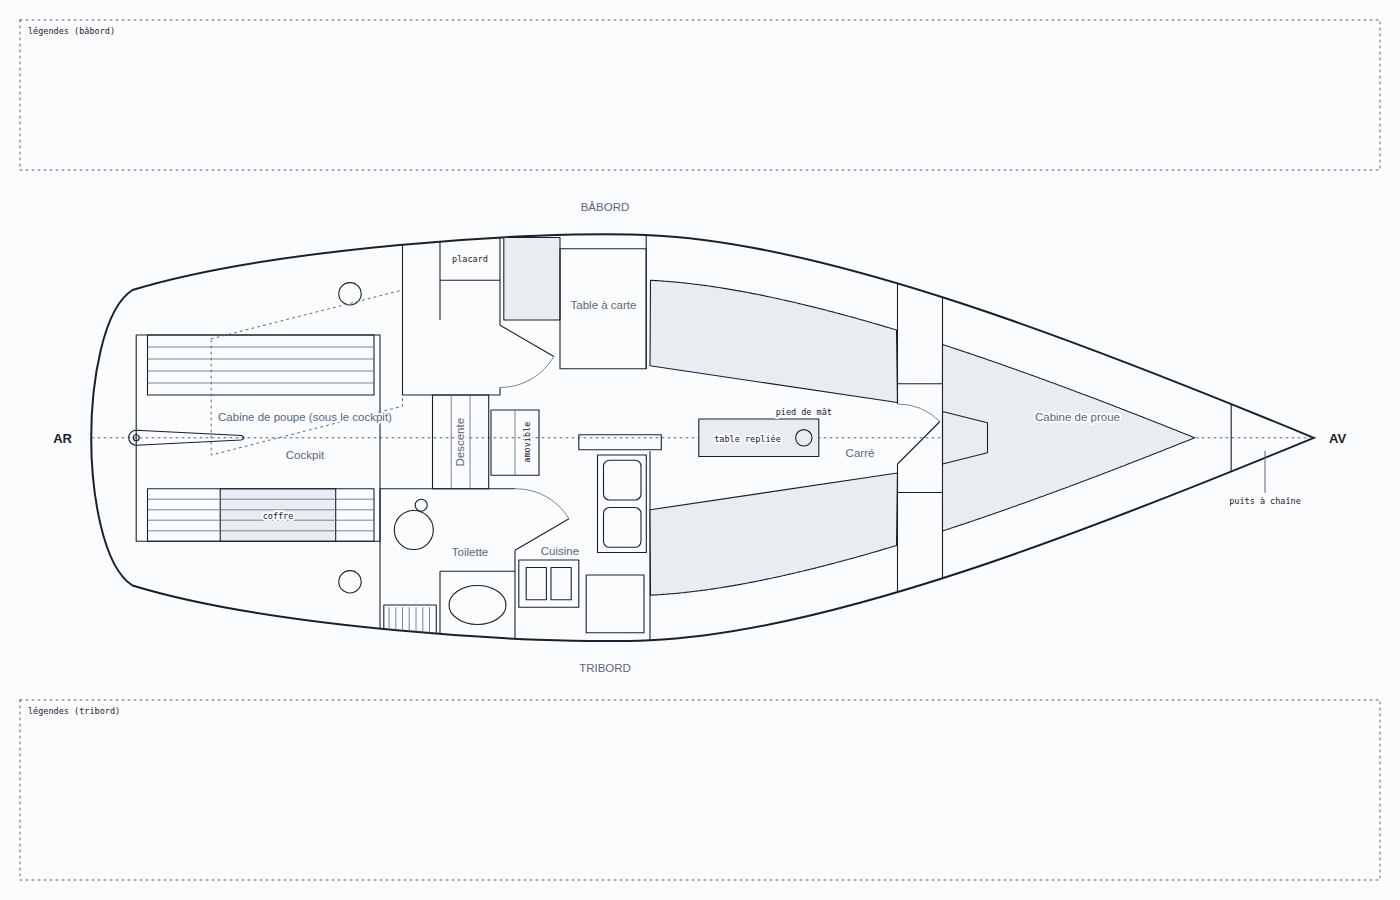
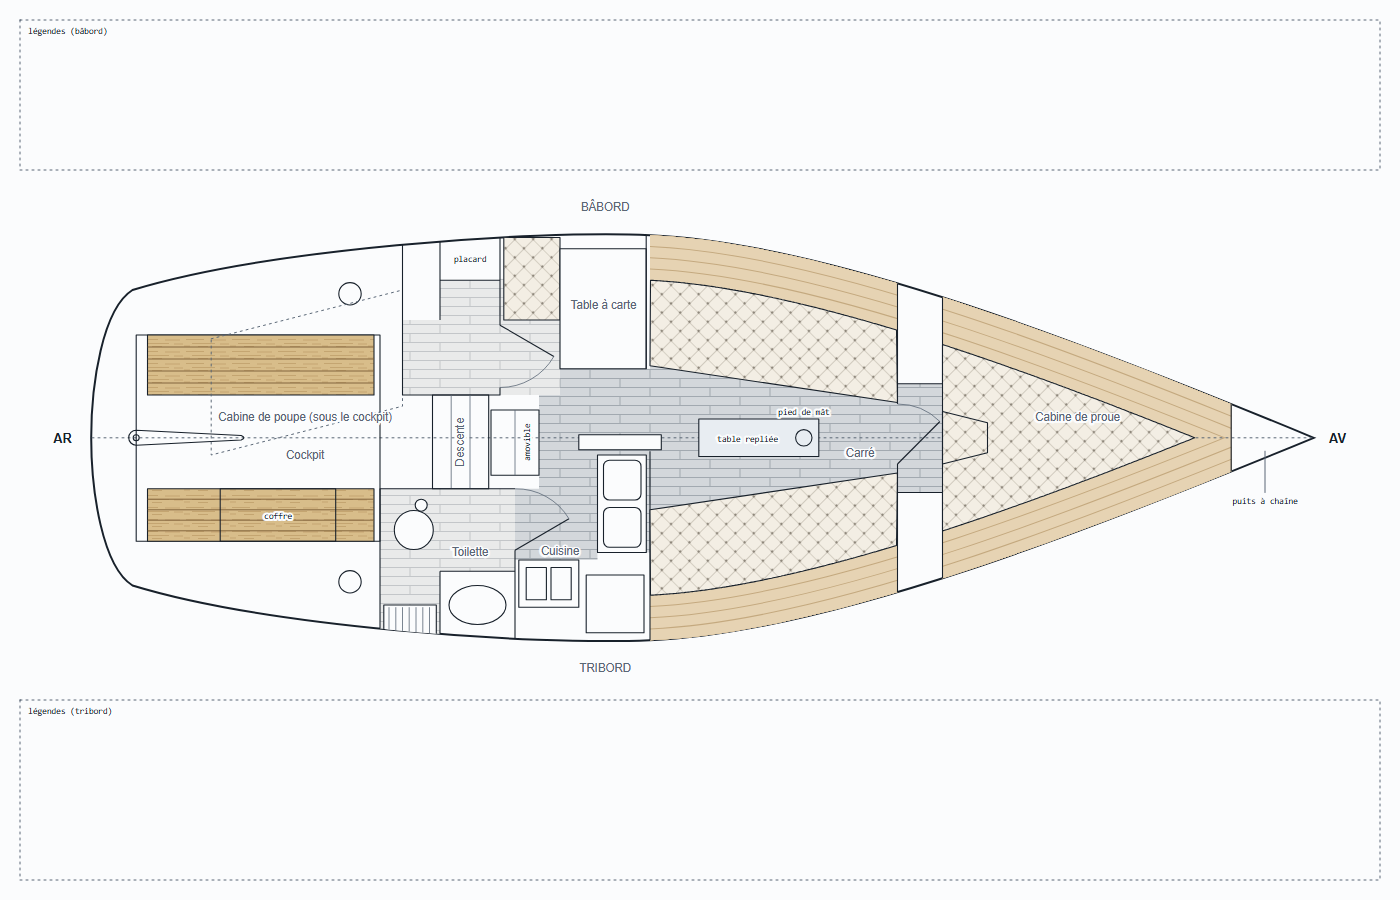
Plan de bord : textures des planchers, matelassages, vaigrages et bancs du cockpit
Planchers en lames sur deux niveaux (carré et cuisine ; cabine de poupe,
table à carte et cabinet de toilette), arrêtés au milieu des assises.
Matelassage capitonné, vaigrages en lattes brun clair, bancs en teck.
Couleurs en variables, avec leur variante sombre.

diff --git a/brouillons/plan-de-bord/plan_bord.py b/brouillons/plan-de-bord/plan_bord.py
@@ -15,7 +15,37 @@ STYLE = STYLE.replace("  </style>", """    .amg{fill:none;stroke:var(--ink);stro
     .amg-f{fill:var(--zone);stroke:var(--ink);stroke-width:1.1;stroke-linejoin:round}
     .amg-l{fill:none;stroke:var(--muted);stroke-width:.8}
     .halo{paint-order:stroke;stroke:var(--sheet);stroke-width:4px;stroke-linejoin:round}
+    .amg-b{fill:var(--sheet);stroke:var(--ink);stroke-width:1.1;stroke-linejoin:round}
+    svg{--sol-b:#d3d7db;--sol-b-l:#a2a9b0;--sol-h:#e9eaea;--sol-h-l:#c3c6c9;--mat:#f3eee4;--mat-l:#b9b2a5;--mat-b:#8f887c;--vaig:#e6d3b3;--vaig-l:#c4a97f;--teck:#d8bd8a;--teck-l:#bb9b66;--teck-j:#7a5c35}
+    @media (prefers-color-scheme: dark){svg{--sol-b:#2b333b;--sol-b-l:#3f4952;--sol-h:#363d44;--sol-h-l:#4b545d;--mat:#3a3631;--mat-l:#59534a;--mat-b:#736b5f;--vaig:#4b3e2c;--vaig-l:#6b583d;--teck:#5a4630;--teck-l:#6e5739;--teck-j:#2b2015}}
+    .sol-b{fill:url(#pb-sol-b)}.sol-h{fill:url(#pb-sol-h)}
+    .mat{fill:url(#pb-mat);stroke:var(--ink);stroke-width:1.1;stroke-linejoin:round}
+    .teck{fill:url(#pb-teck);stroke:var(--ink);stroke-width:1.1;stroke-linejoin:round}
+    .teck-j{fill:none;stroke:var(--teck-j);stroke-width:.9}
+    .vaig{fill:none;stroke:var(--vaig)}.vaig-l{fill:none;stroke:var(--vaig-l)}
   </style>""")
+# textures (motifs en px)
+DEFS = """  <defs>
+    <pattern id="pb-sol-b" width="60" height="18" patternUnits="userSpaceOnUse">
+      <rect width="60" height="18" style="fill:var(--sol-b)"/>
+      <path d="M0 .5H60M0 9.5H60M20 .5V9.5M50 9.5V18" style="stroke:var(--sol-b-l);stroke-width:1"/>
+    </pattern>
+    <pattern id="pb-sol-h" width="60" height="18" patternUnits="userSpaceOnUse">
+      <rect width="60" height="18" style="fill:var(--sol-h)"/>
+      <path d="M0 .5H60M0 9.5H60M20 .5V9.5M50 9.5V18" style="stroke:var(--sol-h-l);stroke-width:1"/>
+    </pattern>
+    <pattern id="pb-mat" width="13" height="13" patternUnits="userSpaceOnUse" patternTransform="rotate(45)">
+      <rect width="13" height="13" style="fill:var(--mat)"/>
+      <path d="M0 0H13M0 0V13" style="stroke:var(--mat-l);stroke-width:1.2"/>
+      <circle r="1.3" style="fill:var(--mat-b)"/><circle cx="13" r="1.3" style="fill:var(--mat-b)"/>
+      <circle cy="13" r="1.3" style="fill:var(--mat-b)"/><circle cx="13" cy="13" r="1.3" style="fill:var(--mat-b)"/>
+    </pattern>
+    <pattern id="pb-teck" width="46" height="12" patternUnits="userSpaceOnUse">
+      <rect width="46" height="12" style="fill:var(--teck)"/>
+      <path d="M2 3.5H20M27 4H42M8 7.5H31M36 8H45M0 10H6M14 10.5H24" style="stroke:var(--teck-l);stroke-width:.7"/>
+    </pattern>
+  </defs>
+"""
 
 K, OX, OY, CY = 0.75, 80, 196.25, 322   # X = OX + K·zx ; Y = OY + K·zy ; axe à zy = 322
 
@@ -111,17 +141,41 @@ A('<!-- Coque et axe du bateau -->')
 A(f'<clipPath id="pb-coque"><path d="{coque}"/></clipPath>')
 A(f'<path class="hull" d="{coque}"/>')
 A('<g clip-path="url(#pb-coque)">')
+
+A('<!-- Vaigrages latéraux : lattes parallèles au bord, du bord au dossier (carré, cabine de proue) -->')
+A(f'<clipPath id="pb-vaig">{rect("", 760, 0, 1090, 700)}{rect("", 1150, 0, 1535, 700)}</clipPath>')
+A('<g clip-path="url(#pb-vaig)">')
+ep = 2 * K * 60                              # trait centré sur le bord : moitié visible
+for i in range(4):
+    w = ep * (4 - i) / 4
+    if i:
+        A(f'<path class="vaig-l" d="{coque}" stroke-width="{w + 1:.1f}"/>')
+    A(f'<path class="vaig" d="{coque}" stroke-width="{w - (1 if i else 0):.1f}"/>')
+A('</g>')
+
+A('<!-- Planchers, jusqu’au milieu des assises. Niveau bas : carré, cuisine ; '
+  'niveau haut : cabine de poupe, table à carte, cabinet de toilette -->')
+A(path("sol-h", (480, 112), (560, 112), (560, 110), (640, 110), (640, 70), (755, 70), (755, 230),
+       (640, 230), (640, 265), (430, 265), (430, 165), (480, 165), close=True))
+A(path("sol-h", (400, 390), (580, 390), (580, 500), (480, 500), (480, 598), (400, 598), close=True))
+db = dossier(760, 1090)
+mi = [(x, (y + 226 + (x - 760) * 49 / 330) / 2) for x, y in db]   # milieu entre dossier et bord d'assise
+mi = [(760, mi[0][1])] + mi + [(1090, (db[-1][1] + 275) / 2)]
+A(path("sol-b", (640, 265), (640, 230), (760, 230), *mi, (1090, 250), (1150, 250), (1150, 395),
+       (1090, 395), *[(x, M(y)) for x, y in reversed(mi)], (690, M(mi[0][1])), (690, 485),
+       (580, 485), (580, 390), (612, 390), (612, 265), close=True))
+
 A(path("bound", (0, CY), (1700, CY)))
 
 A('<!-- Cockpit : bancs à lattes, coffre tribord, winches, safran -->')
 A(rect("amg", 75, 185, 400, 460))
-A(rect("amg", 90, 185, 392, 265))          # banc bâbord
-A(rect("amg-f", 187, 390, 341, 460))       # couvercle du coffre tribord
-A(rect("amg", 90, 390, 392, 460))          # banc tribord
+A(rect("teck", 90, 185, 392, 265))         # banc bâbord
+A(rect("teck", 90, 390, 392, 460))         # banc tribord
 for y0, y1 in ((185, 265), (390, 460)):    # lattes dans la longueur des bancs
     for i in range(1, 5):
         y = y0 + i * (y1 - y0) / 5
-        A(path("amg-l", (90, y), (392, y)))
+        A(path("teck-j", (90, y), (392, y)))
+A(rect("amg", 187, 390, 341, 460))         # couvercle du coffre tribord
 for y in (130, M(130)):                      # winches, symétriques par rapport à l'axe
     A(circle("amg", 360, y, 15))
 # safran : axe de rotation à l'arrière, plus large à l'axe que vers l'avant
@@ -138,8 +192,8 @@ A(path("amg", (480, 112), (560, 112)))       # placard
 A(porte((560, 172), (560, 255), (631.9, 213.5)))
 
 A('<!-- Table à carte et son siège -->')
-A(rect("amg-f", 565, 55, 640, 165))          # siège
-A(rect("amg", 640, 70, 755, 230))            # table à carte
+A(rect("mat", 565, 55, 640, 165))            # siège
+A(rect("amg-b", 640, 70, 755, 230))            # table à carte
 A(path("amg", (755, 50), (755, 230)))
 
 A('<!-- Descente et sa partie amovible (accès au moteur) -->')
@@ -154,29 +208,28 @@ A(path("amg", (400, 598), (400, 390), (580, 390)))
 A(path("amg", (580, 472), (580, 598)))
 A(path("amg", (480, 500), (580, 500)))
 A(path("amg", (480, 500), (480, 598)))
-A(circle("amg", 445, 445, 26))               # WC
-A(circle("amg", 455, 412, 8))                # pompe
+A(circle("amg-b", 445, 445, 26))               # WC
+A(circle("amg-b", 455, 412, 8))                # pompe
 A(ellipse("amg", 530, 545, 38, 26))          # lavabo
-A(rect("amg", 405, 545, 475, 590))           # caillebotis
+A(rect("amg-b", 405, 545, 475, 590))           # caillebotis
 for x in range(412, 475, 9):
     A(path("amg-l", (x, 548), (x, 587)))
 A(porte((580, 472), (580, 390), (652, 430)))
 
 A('<!-- Cuisine (tribord) -->')
-A(rect("amg", 585, 485, 665, 548))           # réchaud deux feux
+A(rect("amg-b", 585, 485, 665, 548))           # réchaud deux feux
 A(rect("amg", 595, 495, 622, 538))
 A(rect("amg", 628, 495, 655, 538))
-A(rect("amg", 675, 505, 752, 582))           # glacière
-A(rect("amg", 690, 345, 755, 475))           # bloc évier
+A(rect("amg-b", 675, 505, 752, 582))           # glacière
+A(rect("amg-b", 690, 345, 755, 475))           # bloc évier
 A(rect("amg", 698, 352, 748, 405, rx=6))
 A(rect("amg", 698, 415, 748, 468, rx=6))
-A(rect("amg", 665, 318, 775, 338))           # plan de travail
+A(rect("amg-b", 665, 318, 775, 338))           # plan de travail
 A(path("amg", (760, 340), (760, 598)))
 
 A('<!-- Carré : banquettes (le trait côté bord est le dossier), table repliée, pied de mât -->')
-db = dossier(760, 1090)
-A(path("amg-f", *db, (1090, 275), (760, 226), close=True))
-A(path("amg-f", *[(x, M(y)) for x, y in db], (1090, M(275)), (760, M(226)), close=True))
+A(path("mat", *db, (1090, 275), (760, 226), close=True))
+A(path("mat", *[(x, M(y)) for x, y in db], (1090, M(275)), (760, M(226)), close=True))
 A(rect("amg-f", 825, CY-25, 985, CY+25))     # table repliée, sur l'axe
 A(circle("amg", 965, CY, 11))                # pied de mât, dans la table, à son bout avant
 
@@ -189,7 +242,7 @@ A(porte((1090, 357), (1090, 277), (1146.6, 300.4)))
 
 A('<!-- Cabine de proue : couchette en V entre les dossiers, qui se rejoignent derrière le puits à chaîne -->')
 dp = dossier(1150, 1700)
-A(path("amg-f", (1150, dp[0][1]), *dp, *[(x, M(y)) for x, y in reversed(dp[:-1])],
+A(path("mat", (1150, dp[0][1]), *dp, *[(x, M(y)) for x, y in reversed(dp[:-1])],
        (1150, M(dp[0][1])), close=True))
 A(path("amg", (1150, 287), (1210, 302), (1210, 342), (1150, 357), close=True))  # trapèze, sur le bord de la couchette
 A(path("amg", (1535, 150), (1535, 494)))     # cloison du puits à chaîne
@@ -220,7 +273,7 @@ el.append(path("leader", (1580, 395), (1580, 340)))
 svg = f'''<svg xmlns="http://www.w3.org/2000/svg" viewBox="0 0 1400 900" role="img" aria-label="Plan de bord vu de dessus : aménagement intérieur et pont du Gib'Sea 31, fond de plan vierge.">
   <title>Folio 6 · Plan de bord</title>
   <desc>Vue de dessus, avant à droite, bâbord en haut, redessinée d'après le plan d'emménagement du constructeur. Fond de plan vierge : les objets du bord (sécurité, armement) y seront placés avec leurs légendes.</desc>
-{STYLE}  <rect class="bg" x="0" y="0" width="100%" height="100%"/>
+{STYLE}{DEFS}  <rect class="bg" x="0" y="0" width="100%" height="100%"/>
   ''' + "\n  ".join(el) + f'''
   <text class="ts mid" x="{OX+K*700:.0f}" y="{OY+K*20:.0f}">BÂBORD</text>
   <text class="ts mid" x="{OX+K*700:.0f}" y="{OY+K*635:.0f}">TRIBORD</text>

diff --git a/brouillons/plan-de-bord/README.md b/brouillons/plan-de-bord/README.md
@@ -4,10 +4,10 @@ Nouveau folio vu de dessus recensant les objets importants du bord (fusées de d
 
 Phases :
 
-1. Fond de plan vide, redessiné d'après `plan-emmenagements-constructeur.jpg` : fait le 16/10 (`folio-6-plan-de-bord.svg`, aperçu `apercu.png`), puis corrigé d'après les remarques de l'utilisateur. Écarts voulus avec le plan constructeur : lavabo de la cabine de poupe déposé (placard conservé), table du carré représentée repliée, quille et liston non dessinés. Portes avec leur ouverture : cabine de poupe, cabinet de toilette, cabine de proue.
+1. Fond de plan vide, redessiné d'après `plan-emmenagements-constructeur.jpg` : fait le 16/10 (`folio-6-plan-de-bord.svg`, aperçu `apercu.png`), puis corrigé d'après les remarques de l'utilisateur. Écarts voulus avec le plan constructeur : lavabo de la cabine de poupe déposé (placard conservé), table du carré représentée repliée, quille et liston non dessinés. Portes avec leur ouverture : cabine de poupe, cabinet de toilette, cabine de proue. Textures (reprises de `plan_voilier_v2.svg`) : planchers en lames sur deux niveaux (carré et cuisine ; cabine de poupe, table à carte et cabinet de toilette), arrêtés au milieu des assises ; matelassage capitonné des assises et de la couchette de proue ; vaigrages en lattes brun clair, du bord au dossier, dans le carré et la cabine de proue ; teck des bancs du cockpit.
 2. Données des objets dans le relevé : nom, description, couleur, zone, affichage sur ce plan.
 3. Légendes dessinées sur le folio.
 
-`python brouillons/plan-de-bord/plan_bord.py` régénère le SVG ; il reprend le bloc `<style>` du folio 0 et y ajoute les classes `amg`, `amg-f`, `amg-l` et `halo`, à reporter dans tous les folios et dans `page.py` à l'intégration.
+`python brouillons/plan-de-bord/plan_bord.py` régénère le SVG ; il reprend le bloc `<style>` du folio 0 et y ajoute les classes `amg`, `amg-f`, `amg-b`, `amg-l`, `halo`, `sol-b`, `sol-h`, `mat`, `teck`, `teck-j`, `vaig`, `vaig-l`, les variables de couleur des textures et leurs motifs (`<defs>`), à reporter dans tous les folios et dans `page.py` à l'intégration.
 
 Hors de `Electricité/` tant que l'emplacement définitif n'est pas décidé (proposé : `Electricité/livret/`, ou un dossier propre à l'armement) ; le vérificateur ne le contrôle donc pas encore.
